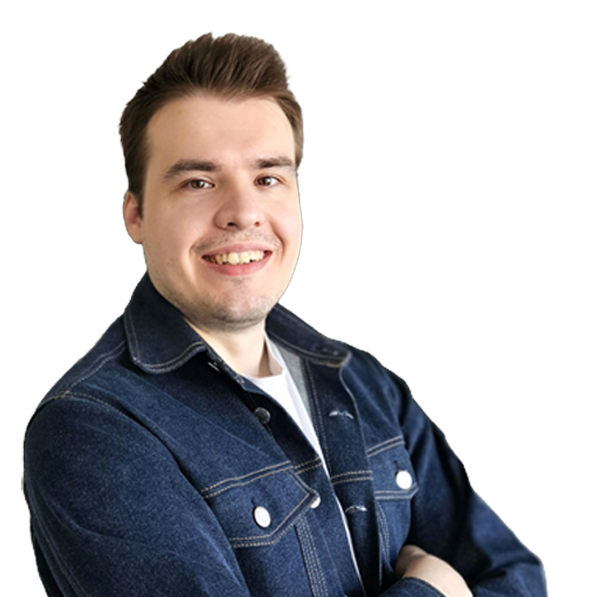
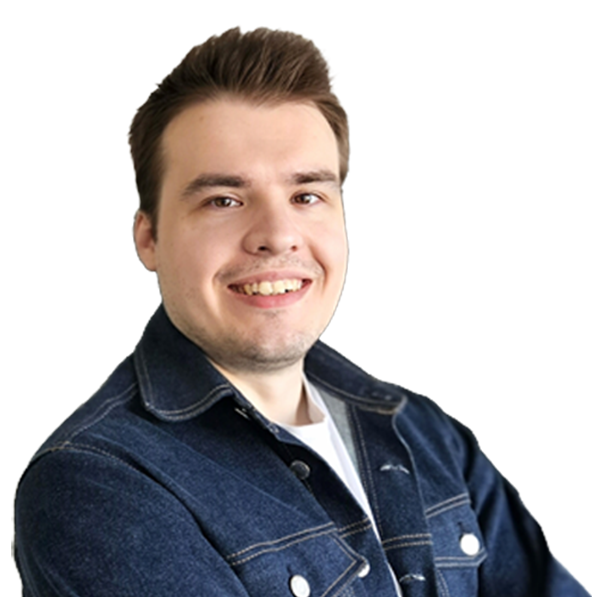
Updated images

diff --git a/index.html b/index.html
@@ -1135,7 +1135,8 @@
           case 1:
             speechBubbleEnabled = false;
             logo_image.style.display = "none";
-            jr_image.src = "https://raw.githubusercontent.com/Koodattu/ucs-llm-voice-image-edit/main/assets/gls.png";
+            jr_image.src =
+              "https://raw.githubusercontent.com/Koodattu/ucs-llm-voice-image-edit/main/assets/gls_wide.png";
             break;
           case 2:
             speechBubbleEnabled = true;
